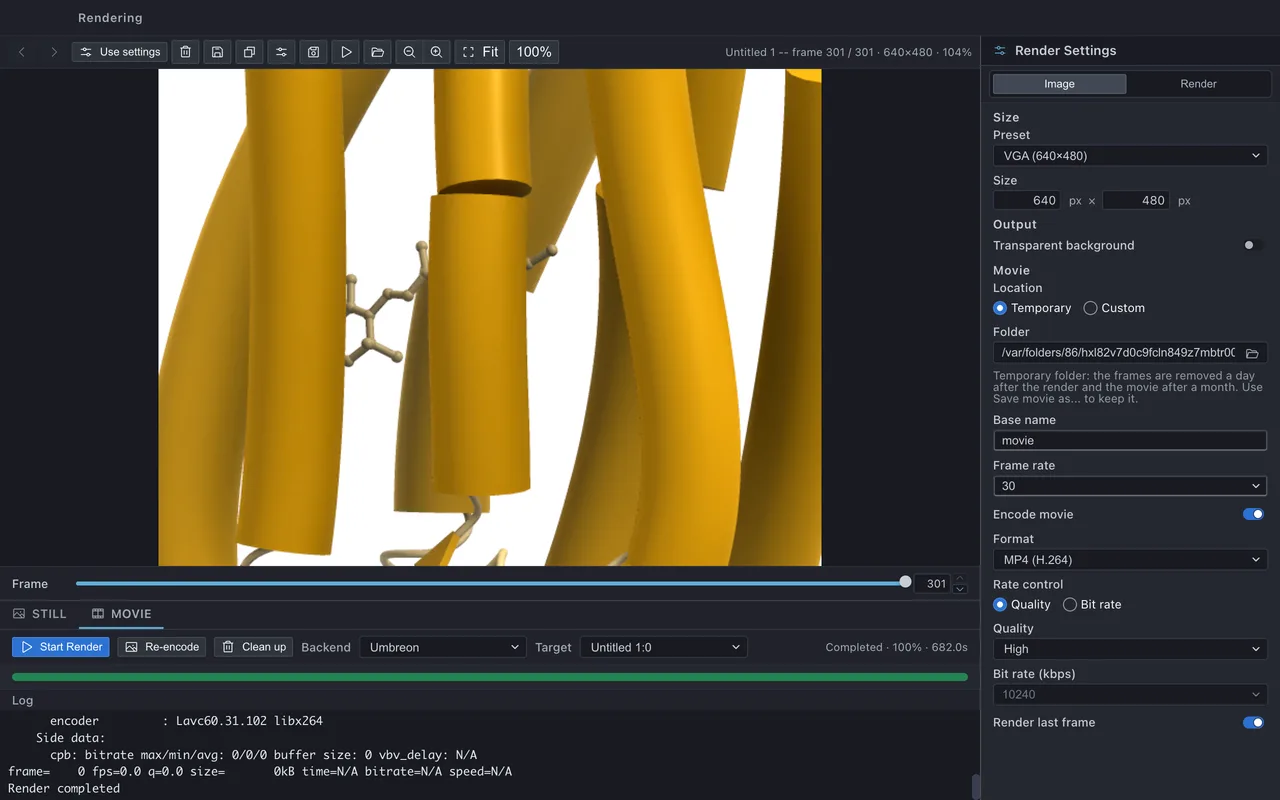
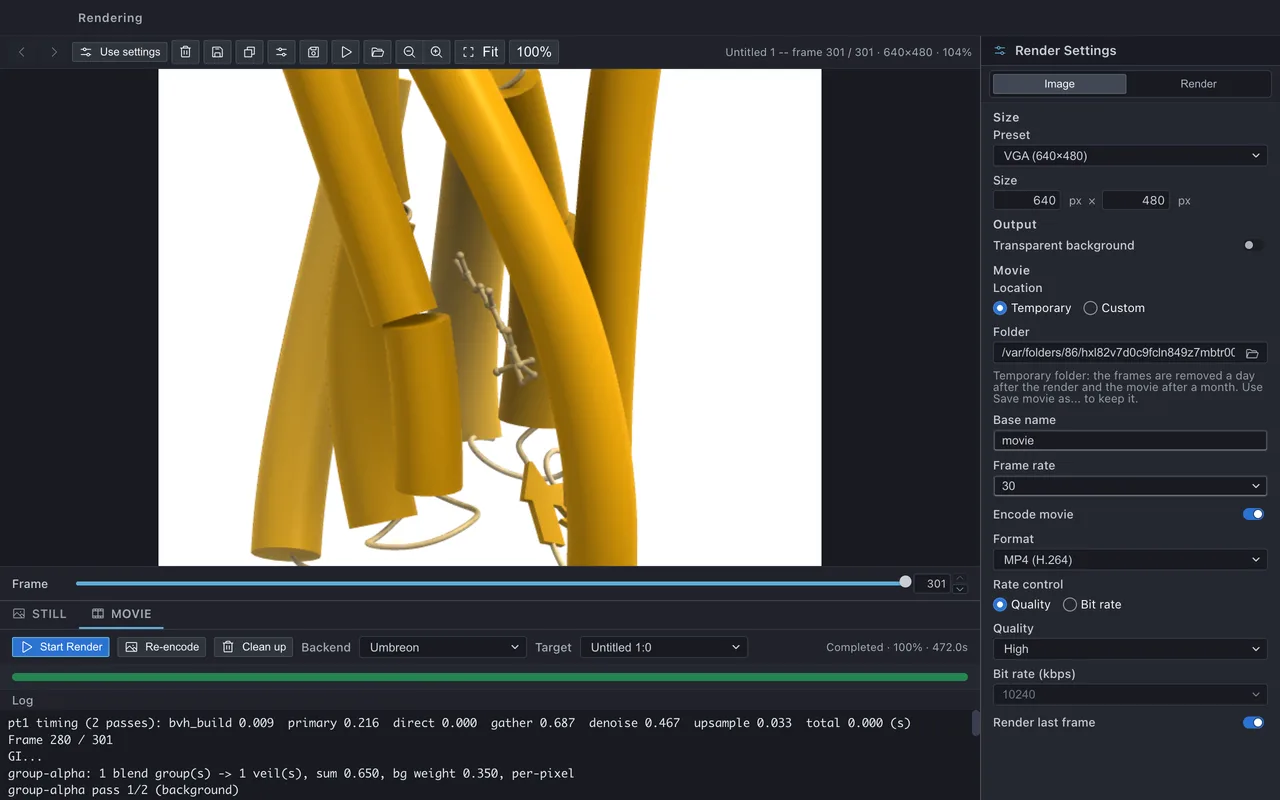
Look at the retinal through a gap between the helices at the end of the camera motion, and embed the movie

diff --git a/docs-verify/specs/animation/animation-movie.spec.ts b/docs-verify/specs/animation/animation-movie.spec.ts
@@ -26,7 +26,7 @@ import {
     transportButton, typeCurrentTime,
 } from '../../helpers/animPanel';
 import { setNumericProperty } from '../../helpers/inspector';
-import { setViewValue, viewValueText } from '../../helpers/viewPane';
+import { enterViewValue, setViewValue, viewValueText } from '../../helpers/viewPane';
 import { openSidebarView } from '../../helpers/sidebar';
 import { showBottomTab } from '../../helpers/bottomPanel';
 import { clearConsole, runConsole } from '../../helpers/console';
@@ -200,7 +200,19 @@ test.describe.serial('アニメーションの作成と動画の出力', { tag: 
         await docShot(w, `${SHOT}/5-new-camera`, { rect: await sidebarRect(w, newCam, 120), highlight: newCam });
         const start = await newCameraFromView();
         // 「3. 同様に、終点にしたい視点に合わせて、もう 1 つカメラを保存します」
-        await setViewValue(w, 'Zoom', 25);
+        //   The end view looks at the retinal from the side, through a gap
+        //   between the helices: Focus on the ballstick row centres it, the
+        //   relative RotY / RotX dials turn the view, and Zoom frames it.
+        await selectRow(w, 'ballstick1');
+        await clickSceneToolbar(w, 'focus');
+        await w.waitForTimeout(800);
+        await enterViewValue(w, 'RotY', -140);
+        await enterViewValue(w, 'RotX', -17);
+        await setViewValue(w, 'Zoom', 35);
+        //   Focus narrows the slab to the retinal, so widen it again.
+        await setViewValue(w, 'Slab', 200);
+        await w.waitForTimeout(800);
+        await docShot(w, `${SHOT}/5-end-view`);
         const end = await newCameraFromView();
         await setViewValue(w, 'Zoom', 60);
         // 「4. タイムラインのヘッダで、開始カメラに始点のカメラを指定します」

diff --git a/docs/en/tutorials/animation/animation-movie.md b/docs/en/tutorials/animation/animation-movie.md
@@ -12,6 +12,15 @@ The first half uses the scene (3UG9) finished in [Making a protein ribbon figure
 
 ![Finished result. A timeline in the Animation panel with Simple spin / Camera motion / Show strips](../../../assets/images/tutorials/animation/animation-movie/6-timeline.webp){ .on-glb }
 
+The movie written out by the steps of the first half (§2 to §6 and §8) looks like this (10 seconds).
+
+<div class="video-embed">
+<iframe src="https://www.youtube-nocookie.com/embed/0nv7LhVDIrY?loop=1&playlist=0nv7LhVDIrY"
+  title="Animation of 3UG9 (rotation, camera motion to the retinal, ballstick fade-in)" loading="lazy"
+  allow="accelerometer; clipboard-write; encrypted-media; gyroscope; picture-in-picture; web-share"
+  referrerpolicy="strict-origin-when-cross-origin" allowfullscreen></iframe>
+</div>
+
 ## 1. How animation works
 
 An animation is built by placing **animation elements** (rotation, camera movement, display switching, etc.) on a timeline. Each element is shown as a band (strip); the position of the band is the start time and its length is the duration
@@ -61,7 +70,15 @@ The view moves smoothly to a saved camera. This is used for effects such as zoom
 
     ![The New camera from view button of the Camera panel](../../../assets/images/tutorials/animation/animation-movie/5-new-camera.webp){ width="304" .on-glb }
 
-3. In the same way, set the view to the viewpoint you want as the end (here, zoomed in around the retinal) and save another camera.
+3. In the same way, set the view to the viewpoint you want as the end and save another camera. Here it is a side view close to the
+   retinal, in which the retinal can be seen through a gap between the helices.
+    1. Select the `ballstick1` row in the **Explorer &gt; Scene** panel and press **Focus** to center the retinal.
+    2. Enter `-140` in **RotY** and then `-17` in **RotX** of the **View** panel to turn the view
+       (the Rotation fields turn the view by the angle entered).
+    3. Set **Zoom** to 35 Å. Focus narrows the slab, so set **Slab** back to 200 Å as well.
+    4. Press **New camera from view** to save it.
+
+    ![The end view. The retinal can be seen through a gap between the helices](../../../assets/images/tutorials/animation/animation-movie/5-end-view.webp){ .on-glb }
 4. In **Start cam** in the header of the timeline, specify the start camera (`camera_0`).
 
     ![camera_0 specified in Start cam](../../../assets/images/tutorials/animation/animation-movie/5-start-cam.webp){ .on-glb }
@@ -87,7 +104,7 @@ Show / Hide are animations in which a Renderer gradually **fades in / fades out*
 
     ![The Show inspector. 3ug9/ballstick1 checked in Target renderers](../../../assets/images/tutorials/animation/animation-movie/6-show-inspector.webp){ width="308" .on-glb }
 
-You now have a 10-second animation: the molecule makes one turn (5 s), the view zooms in around the retinal (3 s), and the
+You now have a 10-second animation: the molecule makes one turn (5 s), the view swings around and closes in on the retinal (3 s), and the
 retinal ballstick appears (2 s). The target Renderer of Show is not displayed before its strip.
 
 There are also **Slide in / Slide out**, which bring objects in and out with a movement from off-screen
@@ -187,8 +204,12 @@ set_anim_prop spin1, axis, "0 1 0"
 set_anim_time spin1, 0, 5000
 # 4. Play back and check
 animate play
-# 5. Add a camera motion (adjust the view before saving each one)
+# 5. Add a camera motion (save the current view as the start and a view close to the retinal as the end)
 save_camera start
+focus_selection 3ug9, "r; RET"
+rotate_view y, -140
+rotate_view x, -17
+set_view zoom=35, slab=200
 save_camera end
 set_anim_options startCamera=start
 add_anim camera, name=cam1
